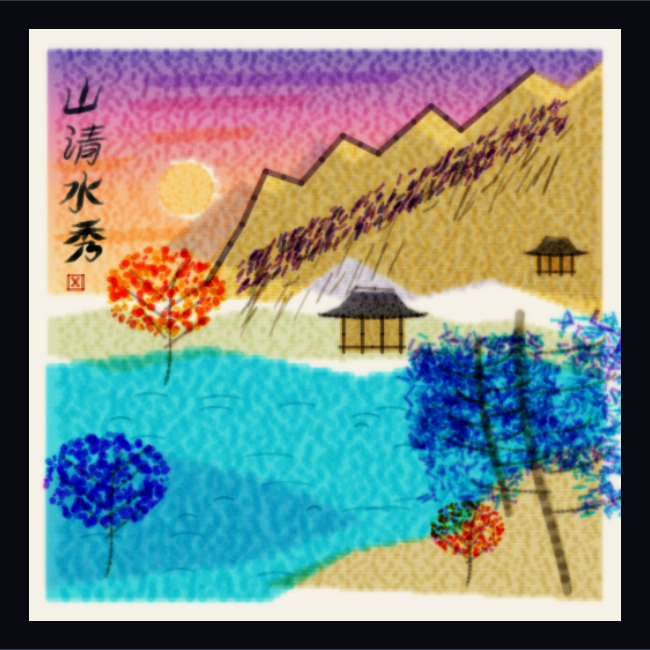
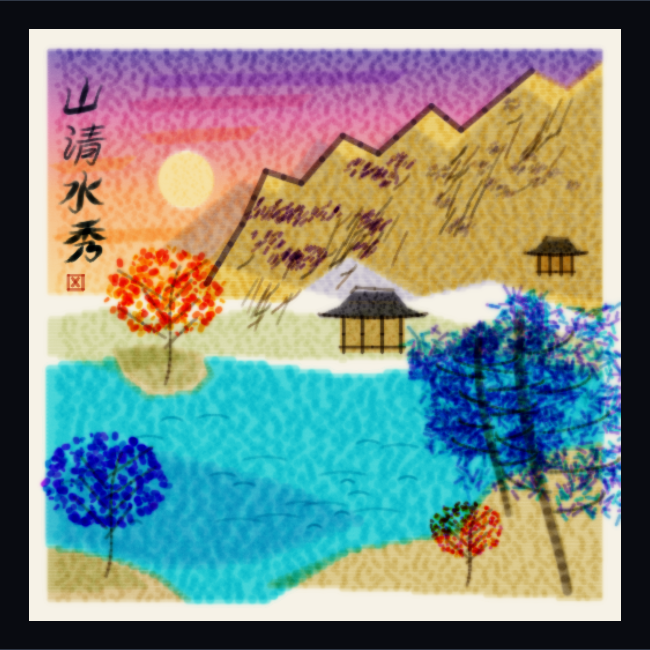
Refine landscape depth and shorelines and speed up demo

Changed region(s): [[0.0615, 0.0923, 0.9538, 0.9538], [0.0923, 0.4923, 0.1231, 0.5231], [0.0923, 0.2462, 0.1231, 0.2769]]

diff --git a/tests/make-milestone2-slide-gifs.py b/tests/make-milestone2-slide-gifs.py
@@ -20,7 +20,14 @@ if len(landscape)>10 and '--seepage-only' not in sys.argv:
     frames=[Image.open(p).convert('RGB').resize((1050,930),Image.Resampling.LANCZOS) for p in landscape]
     # Show the destination briefly, then draw from a blank sheet and hold the result.
     final=Image.open(ROOT/'media/landscape-interface.png').convert('RGB').resize((1050,930),Image.Resampling.LANCZOS)
-    save_gif(ROOT/'media/landscape-drawing.gif',[final]+frames,[1200]+manifest['durationsMs'])
+    # GIF timing is quantized to 10 ms. Round cumulative time so the whole
+    # drawing and rotation play at 1.5x without per-frame rounding drift.
+    durations=[];elapsed=0;encoded=0
+    for duration in [1200]+manifest['durationsMs']:
+        elapsed+=duration/1.5
+        next_time=round(elapsed/10)*10
+        durations.append(next_time-encoded);encoded=next_time
+    save_gif(ROOT/'media/landscape-drawing.gif',[final]+frames,durations)
 if '--landscape-only' in sys.argv:
     sys.exit(0)
 seepage=sorted((ROOT/'media/frames/seepage').glob('[0-9]*.png'))
